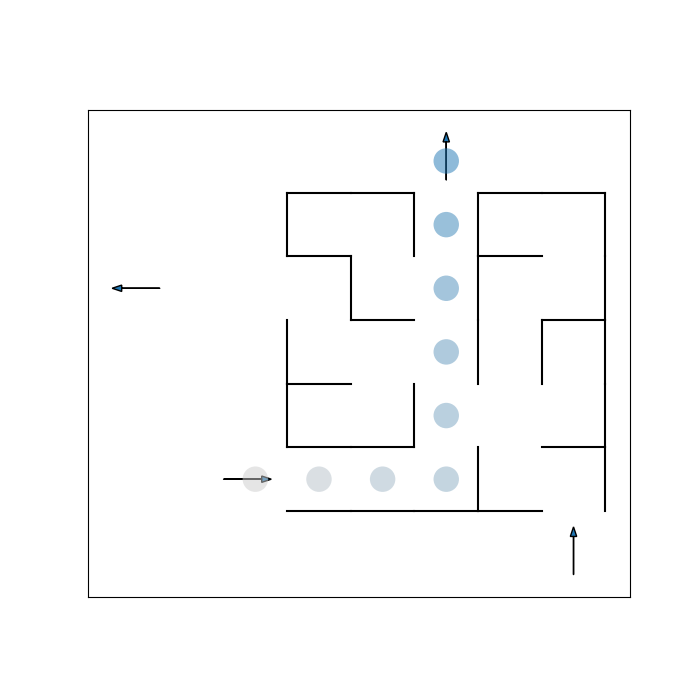
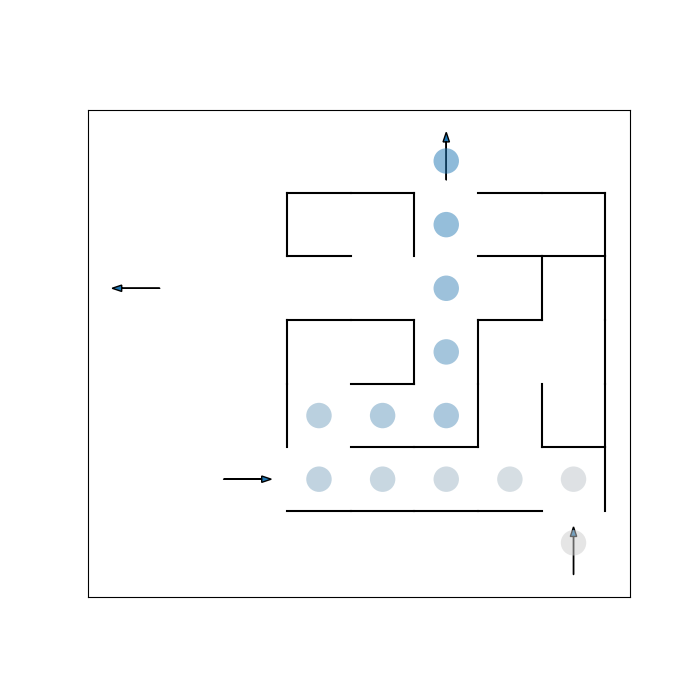
update kruskal

diff --git a/solver/recurBackMazeSolver.py b/solver/recurBackMazeSolver.py
@@ -2,19 +2,15 @@
 # DON'T CHANGE THIS FILE.
 # Recursive BackTracking Maze Solver.
 #
-# __author__ = 'Jeffrey Chan' & 'Elham Naghizade'
+# __author__ = 'Elham Naghizade'
 # __copyright__ = 'Copyright 2024, RMIT University'
 # -------------------------------------------------------------------
 
-from collections import deque
 
 from maze.util import Coordinates
 from maze.maze import Maze
 
 from typing import List
-
-
-
 
 class RecurBackMazeSolver():
 
@@ -30,62 +26,35 @@ class RecurBackMazeSolver():
         # self.m_exitUsed: Exit found and used by maze solver as the exit.
         self.m_exitUsed = None
 
-        
-
+ 
     def solveMaze(self, maze: Maze, entrance: Coordinates):
 
-        # select starting cell
-        startCoord: Coordinates = entrance
-
-		# run recursive backtracking/DFS from starting cell
-        stack : deque = deque()
-        stack.append(startCoord)
-        currCell : Coordinates = startCoord 
-        visited : set[Coordinates] = set([startCoord])
+        visited = set()  # Set to track visited nodes
+        stack   = [entrance]  # populate the stack with the entrance node
+        exits   = maze.getExits()
+        
         predecessors: dict[Coordinates, Coordinates] = {}
         self.m_cellsExplored += 1
+        
+        while stack:
+            currCell = stack.pop()
+            if currCell in exits:
+                # Build the path from predecessors
+                while currCell is not None:
+                    self.m_solverPath.append(currCell)
+                    currCell = predecessors.get(currCell, None)
+                self.m_solverPath.reverse()
+                self.m_entranceUsed = self.m_solverPath[0]
+                self.m_exitUsed = self.m_solverPath[-1]
+                return
 
-        while currCell not in maze.getExits():
-
-			# find all neighbours of current cell
-            neighbours : list[Coordinates] = maze.neighbours(currCell)
-
-			# filter to ones that haven't been visited and within boundary and doesn't have a wall between them	
-            nonVisitedNeighs : list[Coordinates] = [neigh for neigh in neighbours if neigh not in visited and\
-                                                    not maze.hasWall(currCell, neigh)]
-
-            # see if any unvisited neighbours
-            if len(nonVisitedNeighs) > 0:
-
-                neighDist = [(neigh, abs(currCell.getWeight() - neigh.getWeight())) for neigh in nonVisitedNeighs]
-                neigh = sorted(neighDist, key = lambda x:x[1])[0][0]
-
-				# add to stack
-                stack.append(neigh)
-
-				# updated visited
-                visited.add(neigh)
-                predecessors[neigh] = currCell
+            if currCell not in visited:
+                visited.add(currCell)
                 self.m_cellsExplored += 1
 
-				# update currCell
-                currCell = neigh
-            else:
-                currCell = stack.pop()
-  
-        # ensure we are currently at the exit
-        if currCell in maze.getExits():
-            
-            while currCell is not None:
-                self.m_solverPath.append(currCell)
-                currCell = predecessors.get(currCell, None)  
-           
-            # We have moved backwards through predecessors and need to reverse the path
-            self.m_solverPath.reverse()
-            self.m_entranceUsed = self.m_solverPath[0]
-            self.m_exitUsed = self.m_solverPath[1]
+                neighbours = maze.neighbours(currCell)
+                nonVisitedNeighs = [neigh for neigh in neighbours if neigh not in visited and not maze.hasWall(currCell, neigh)]
 
-
-
-
-
+                for neigh in nonVisitedNeighs:
+                    stack.append(neigh)
+                    predecessors[neigh] = currCell

diff --git a/generator/kruskalGenerator.py b/generator/kruskalGenerator.py
@@ -6,9 +6,9 @@
 # __copyright__ = 'Copyright 2024, RMIT University'
 # -------------------------------------------------------------------
 
-
 from maze.maze import Maze
 from maze.util import Coordinates
+from typing import List
 
 
 class DisjointSet:
@@ -48,34 +48,27 @@ class KruskalMazeGenerator:
         # Get all coordinates (cells) from the maze
         coords = maze.getCoords()
         num_cells = len(coords)
-        
+
         # Initialize DisjointSet with the number of cells
         disjoint_set = DisjointSet(num_cells)
 
-        # Initialize all walls with their weights (cell1, cell2, weight)
-        walls = []
-        for cell in coords:
-            neighbours = maze.neighbours(cell)
-            for neigh in neighbours:
-                # Only consider walls that are not on the boundary
-                if self.isValidCell(cell, maze) and self.isValidCell(neigh, maze) and maze.hasEdge(cell, neigh):
-                    wall_weight = maze.edgeWeight(cell, neigh)
-                    walls.append((wall_weight, cell, neigh))
+        # Get all non-boundary edges (walls) from the maze
+        edges = [edge for edge in maze.getEdges()
+                 if self.isValidCell(edge[0], maze) and self.isValidCell(edge[1], maze)]
 
-        # Sort walls by their weights (ascending order)
-        walls.sort(key=lambda x: x[0])
+        # Sort edges by their weights (ascending order)
+        edges.sort(key=lambda x: maze.edgeWeight(x[0], x[1]))
 
-        # Process each wall
-        for wall_weight, cell1, cell2 in walls:
+        # Process each edge
+        for edge in edges:
+            cell1, cell2 = edge[:2]
             cell1_index = coords.index(cell1)
             cell2_index = coords.index(cell2)
 
             # If the two cells are not part of the same set, remove the wall
             if disjoint_set.find(cell1_index) != disjoint_set.find(cell2_index):
-                # Ensure the boundary walls are not removed
-                if self.isValidCell(cell1, maze) and self.isValidCell(cell2, maze):
-                    maze.removeWall(cell1, cell2)
-                    disjoint_set.union(cell1_index, cell2_index)
+                maze.removeWall(cell1, cell2)
+                disjoint_set.union(cell1_index, cell2_index)
 
         # The maze is now generated using Kruskal's algorithm
 
